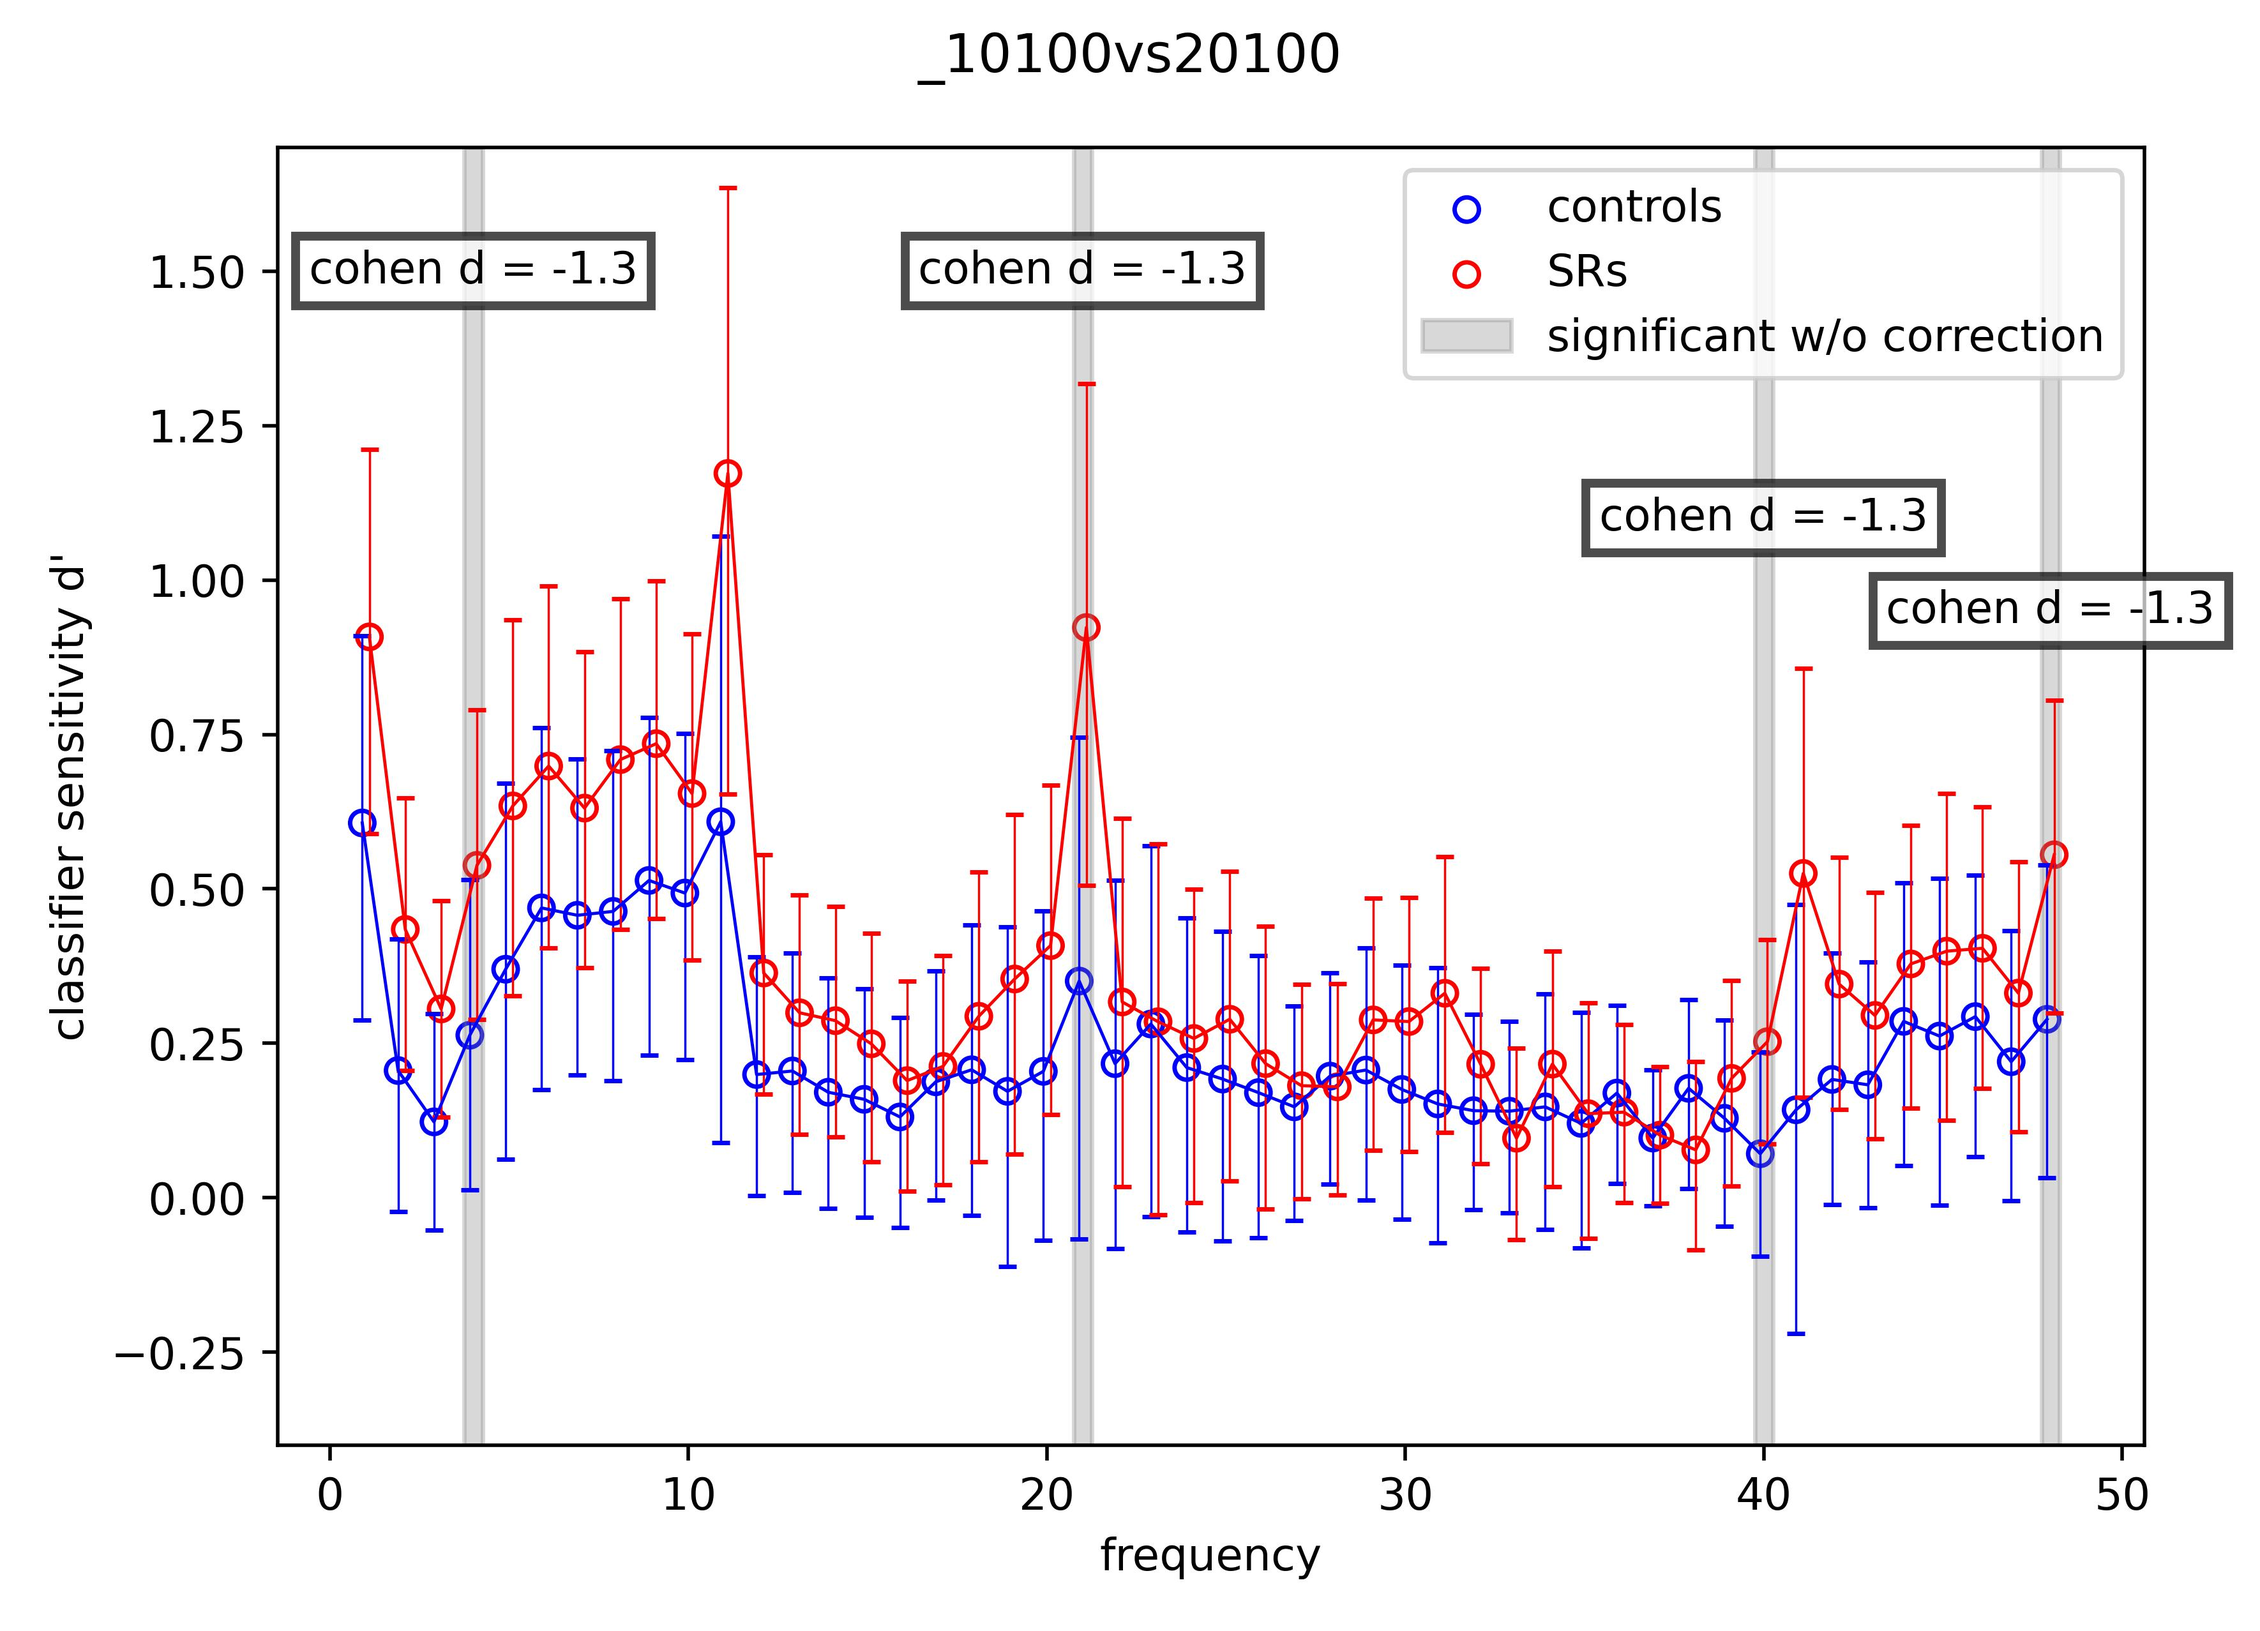
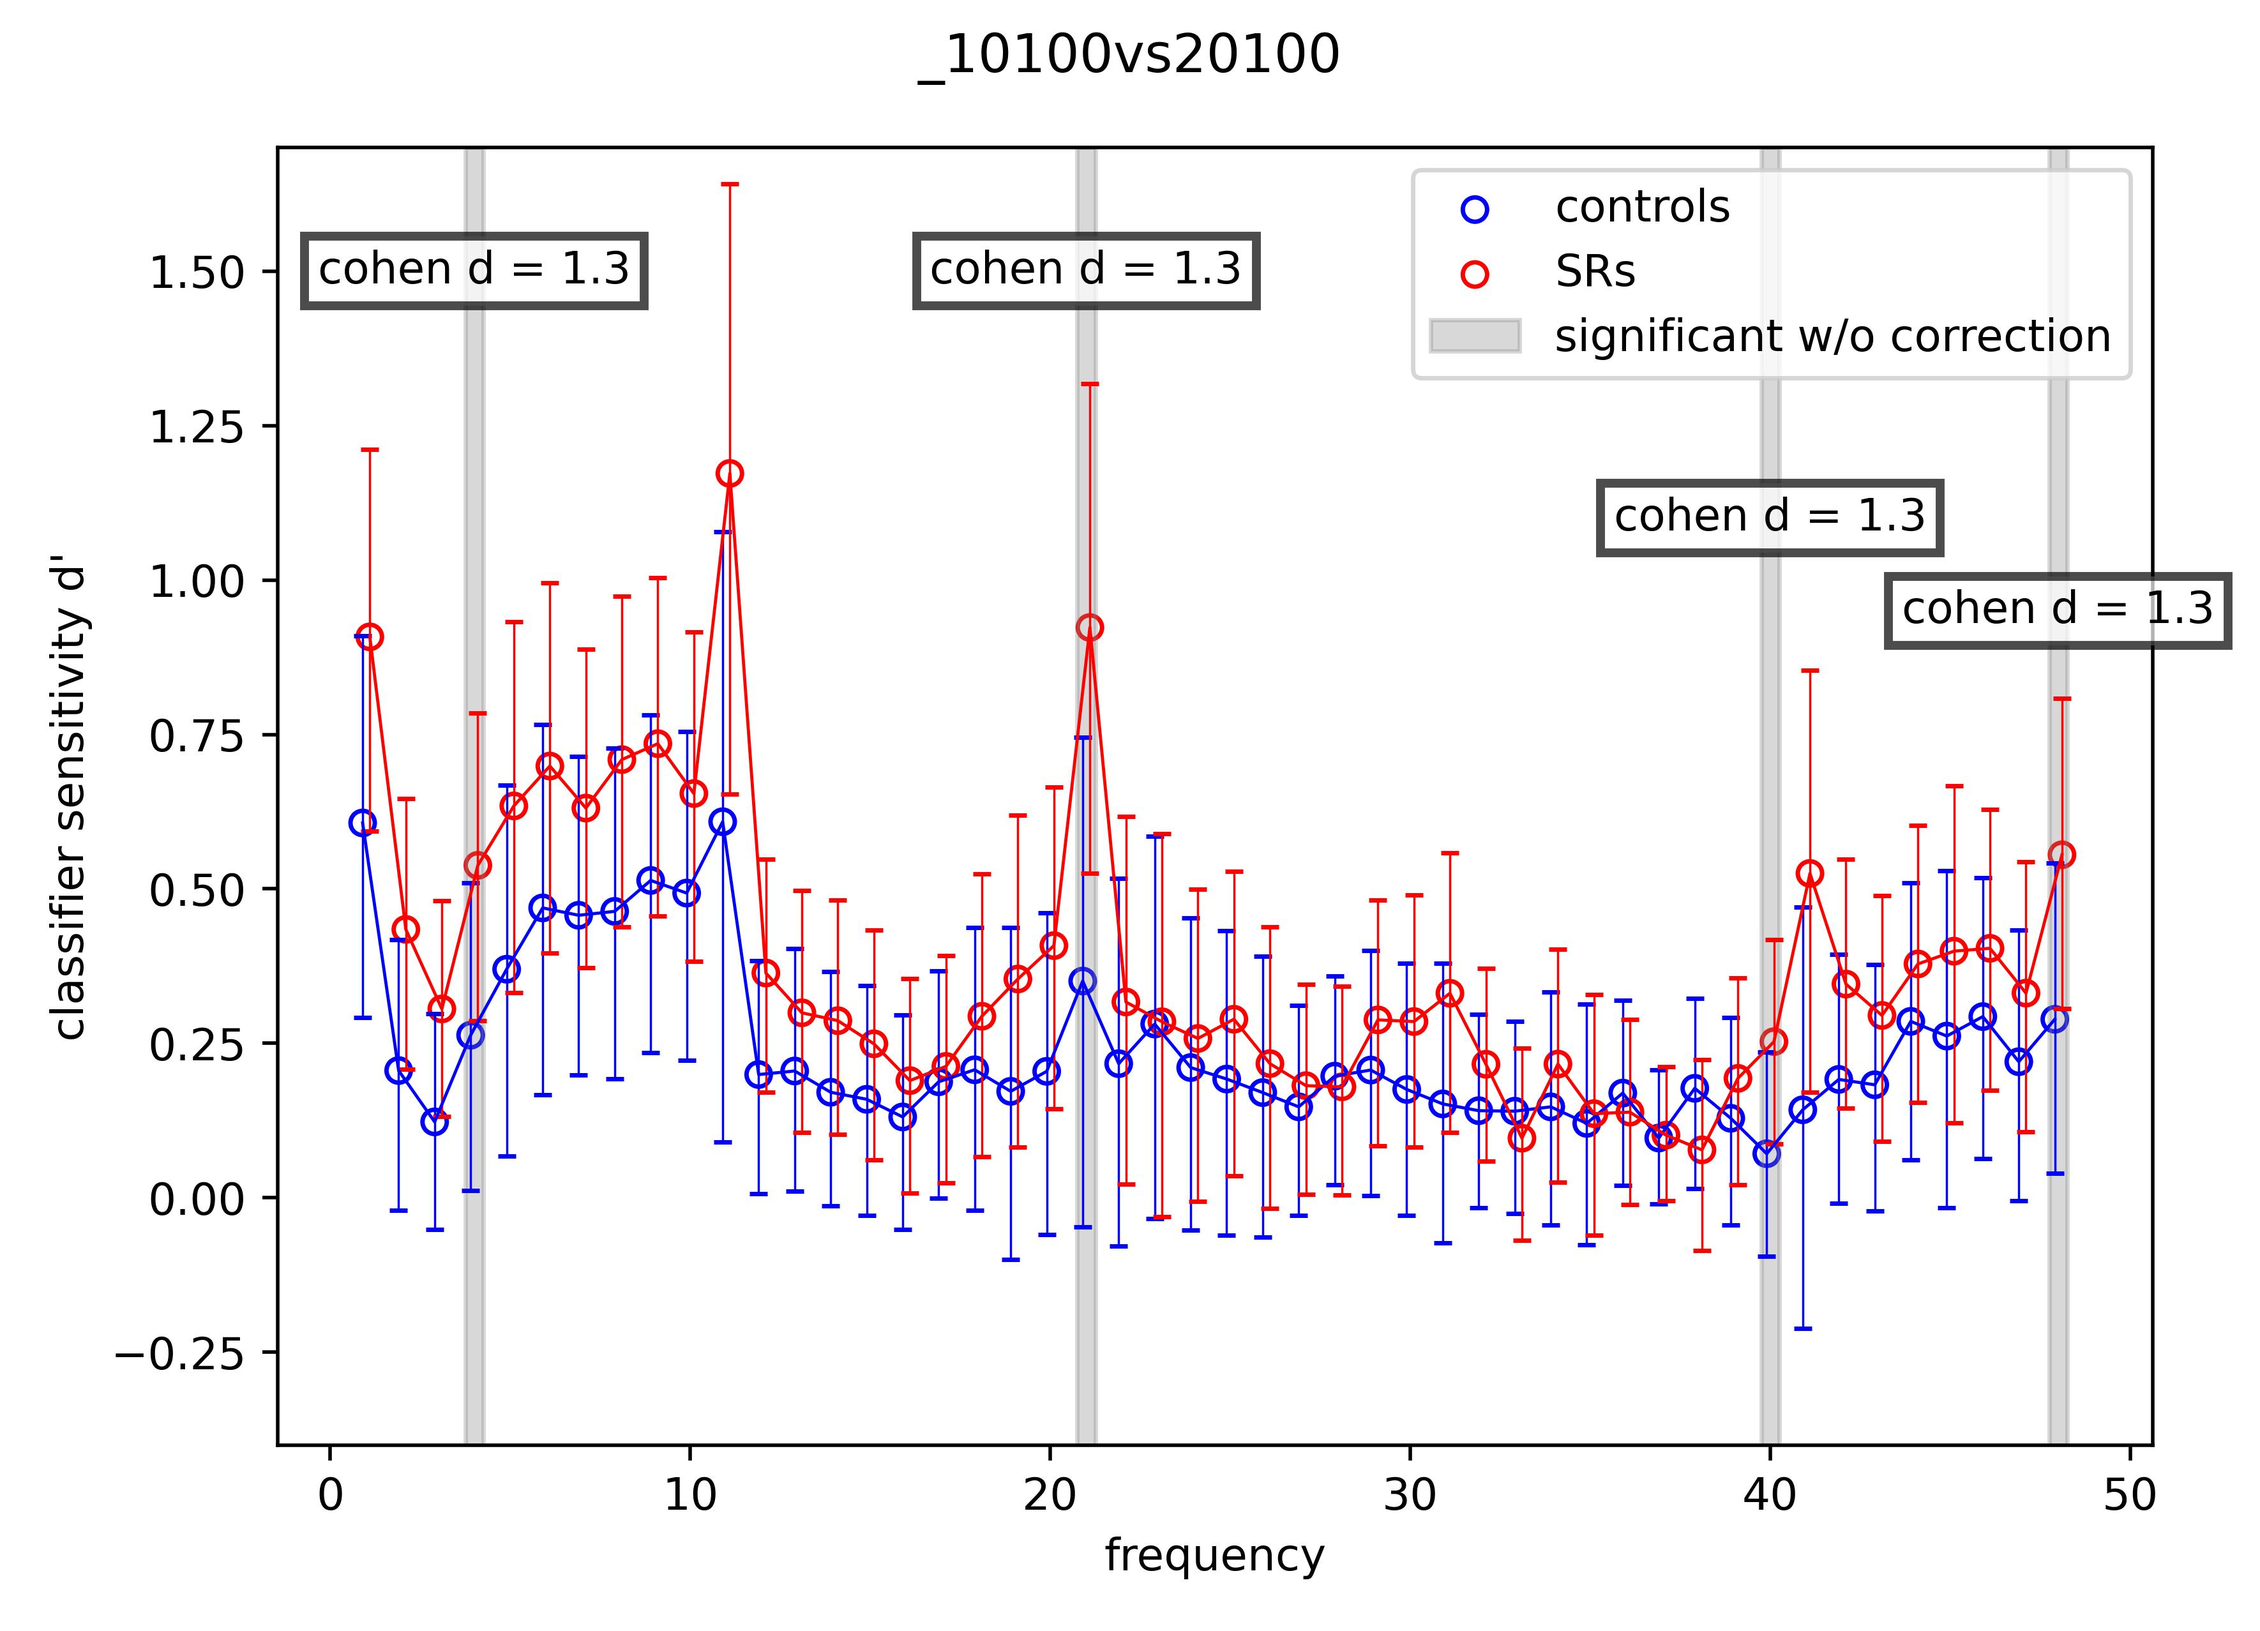
experiment 3 update

diff --git a/analysis_expt3.py b/analysis_expt3.py
@@ -74,8 +74,8 @@ for i in range(len(conditions)):
     sr = filt_condition[filt_condition['group'] == 'sr']
     con_true = [control[i].mean() for i in range(1, 49)]
     sr_true = [sr[i].mean() for i in range(1, 49)]
-    eff_size_true = [pg.compute_effsize(control[i], sr[i]) for i in range(1, 49)]
-    pval_true = [pg.ttest(control[i], sr[i])['p-val'][0] for i in range(1, 49)]
+    eff_size_true = [pg.compute_effsize(sr[i], control[i]) for i in range(1, 49)]
+    pval_true = [pg.ttest(sr[i], control[i])['p-val'][0] for i in range(1, 49)]
     shuff_d = np.zeros((repetitions, len(freq_vector)))
 
     for nr in range(repetitions):
